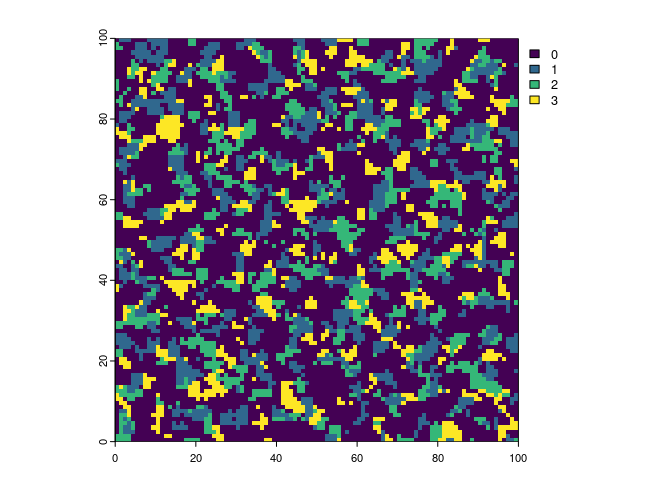
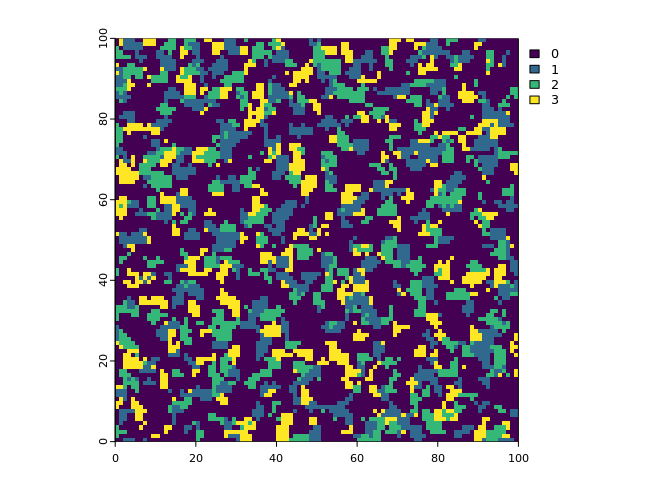
readme update

Changed region(s): [[0.125, 0.0625, 0.7812, 0.9688], [0.8125, 0.1875, 0.8438, 0.2188], [0.8125, 0.0938, 0.8438, 0.125]]

diff --git a/README.md b/README.md
@@ -13,14 +13,14 @@ The goal of landsimR is to allow simple yet …
 You can install the development version of landsimR like so:
 
 ``` r
-install_github('')
+install_github('m-kucera/landsimR')
 ```
 
 ## Basic Virtual Landscape Creation
 
 ``` r
 library(landsimR)
-landscape = create_landscape()
+landscape = create_landscape(c(100, 100), c(.1, .1, .1), c(.3, .3, .3))
 ```
 
 You’ll still need to render `README.Rmd` regularly, to keep `README.md`
